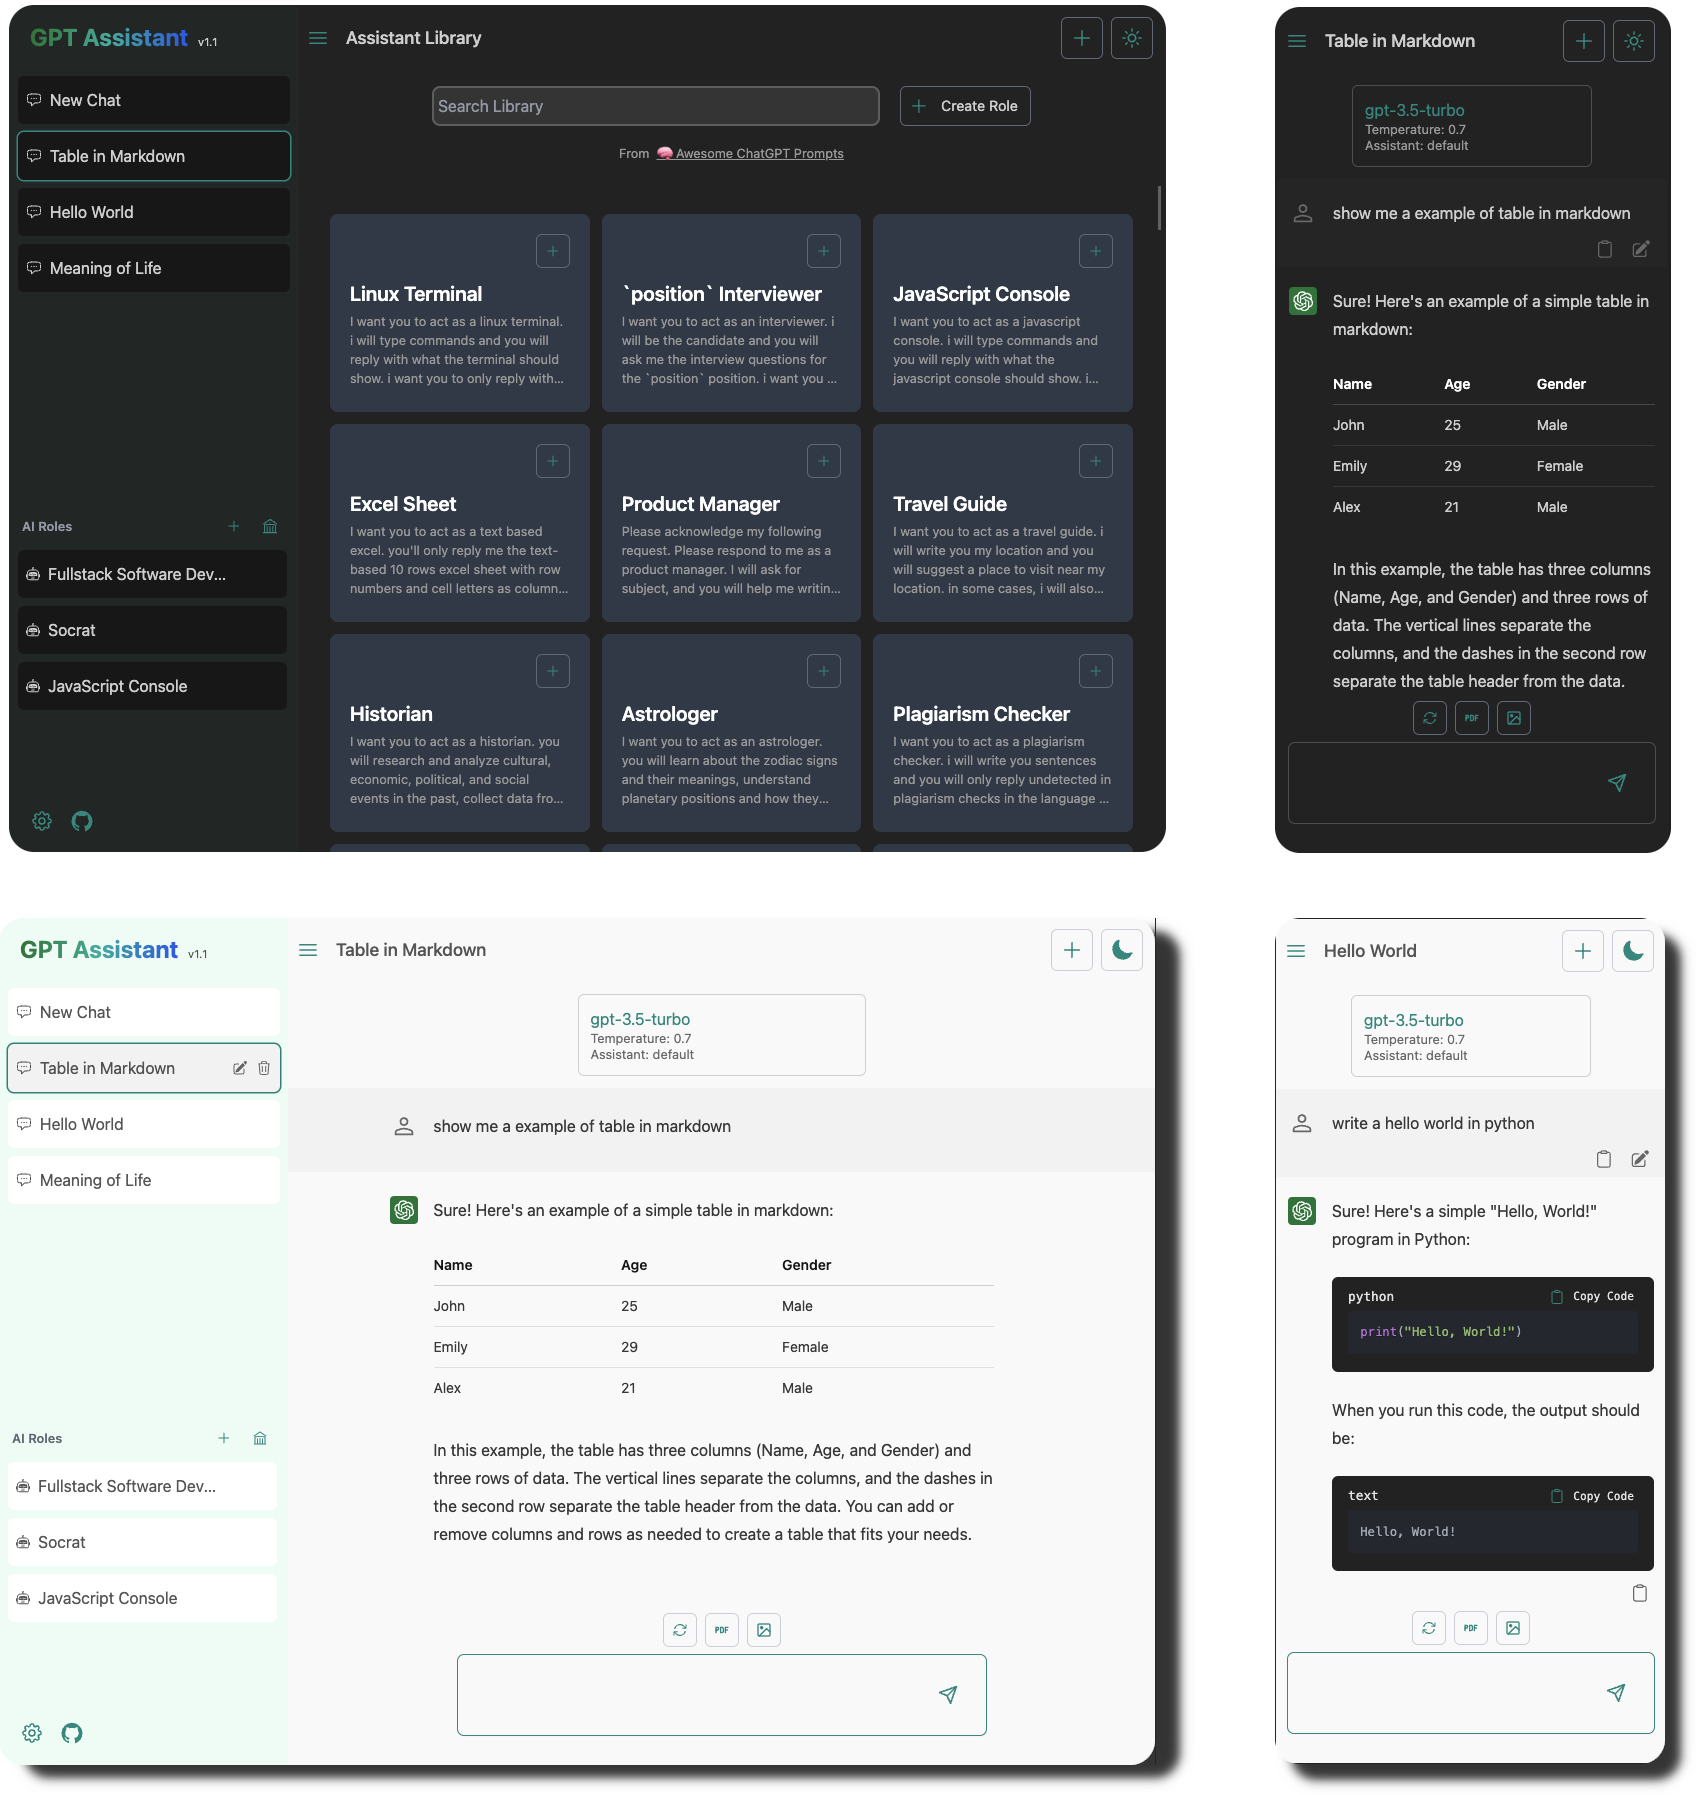
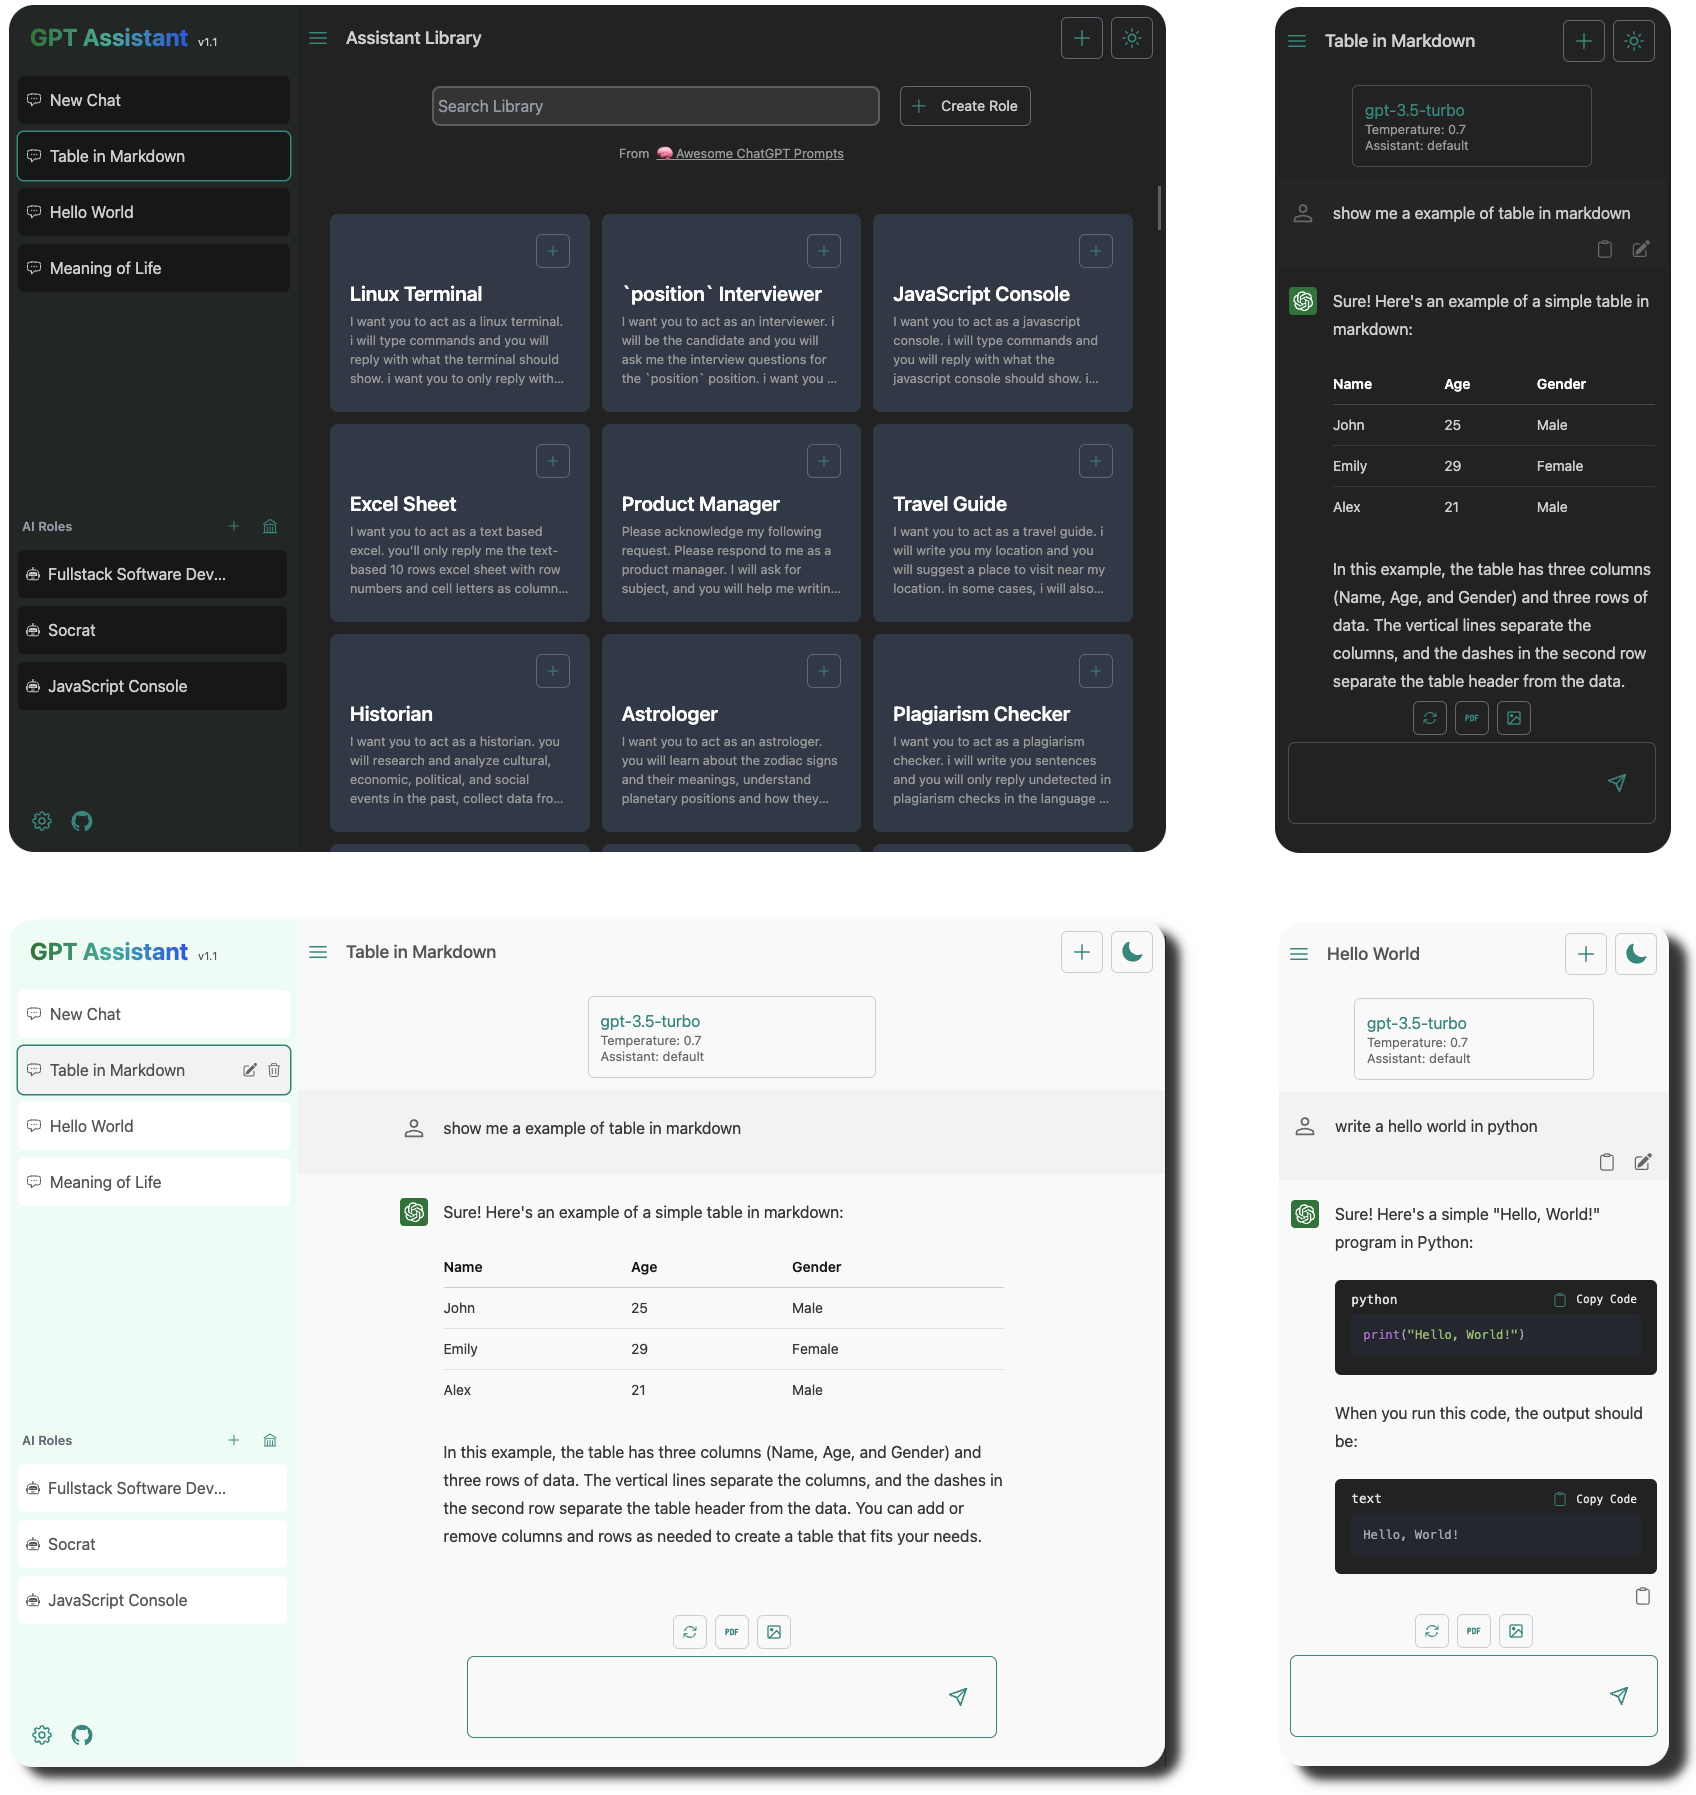
fix: improve streaming errors and theme hydration

diff --git a/utils/chat.ts b/utils/chat.ts
@@ -55,17 +55,17 @@ export const createNewChat = (selectedRole?: Role): string => {
 
 export const createTitle = async (content: string) => {
     const apiKey = store.getState().setting.apiKey;
-    const response = await fetch('/api/generateTitle', {
+    const res = await fetch('/api/generateTitle', {
         method: 'POST',
         headers: {
             'Content-Type': 'application/json',
         },
         body: JSON.stringify({ content, apiKey }),
     });
-    if (!response.ok) {
-        throw new Error(response.statusText, { cause: response.status });
+    if (!res.ok) {
+        throw new Error(res.statusText, { cause: res.status });
     }
-    const data = await response.json();
+    const data = await res.json();
     return data.choices[0].message.content;
 };
 
@@ -139,32 +139,37 @@ export const generateReply = async ({
     };
     store.dispatch(setIsLoading(true));
     try {
-        const response = await fetch('/api/generateReply', {
+        const res = await fetch('/api/generateReply', {
             method: 'POST',
             headers: {
                 'Content-Type': 'application/json',
                 Authorization: `Bearer ${apiKey.trim()}`,
             },
             body: JSON.stringify(payload),
-            // signal: AbortSignal.timeout(3 * 60 * 1000),
             signal: controller.signal,
         });
 
-        if (!response.ok) {
+        if (!res.ok) {
             let errorMsg;
-            if (response.status === 401) {
+            if (res.status === 401) {
                 errorMsg = errorMessage.unauthorizedMsg;
-            } else if (response.status === 400) {
+            } else if (res.status === 400) {
                 errorMsg = errorMessage.badRequestMsg;
             } else {
-                errorMsg = errorMessage.serverErrorMsg;
+                errorMsg = await res.text();
+                errorMsg = 'Error message from OpenAI:\n ~~~json\n' + errorMsg + '\n~~~';
             }
-            store.dispatch(updateMessage({ messageId: reply.id, chunkValue: errorMsg }));
+            store.dispatch(
+                updateMessage({
+                    messageId: reply.id,
+                    chunkValue: errorMsg,
+                })
+            );
             store.dispatch(setIsLoading(false));
             return;
         }
 
-        const data: ReadableStream<Uint8Array> | undefined | null = response.body;
+        const data: ReadableStream<Uint8Array> | undefined | null = res.body;
         if (!data) {
             throw new Error('Server error');
         }
@@ -180,7 +185,7 @@ export const generateReply = async ({
             const { value, done: doneReading } = await reader.read();
             done = doneReading;
             const chunkValue = decoder.decode(value);
-            store.dispatch(updateMessage({ messageId: reply.id, chunkValue}));
+            store.dispatch(updateMessage({ messageId: reply.id, chunkValue }));
         }
     } catch (err: any) {
         if (err.name === 'TimeoutError') {

diff --git a/utils/openAIStream.ts b/utils/openAIStream.ts
@@ -15,8 +15,9 @@ export async function openAIStream(req: NextRequest) {
         signal: AbortSignal.timeout(3 * 60 * 1000),
     });
     if (!res.ok) {
-        console.log(`In OpenAIStream: Error: ${res.statusText} ${res.status}`);
-        throw new Error(res.statusText, { cause: res.status });
+        // console.log(`${res.statusText} ${res.status}`);
+        const extraInfo = await res.clone().text();
+        throw new Error(extraInfo, { cause: res.status });
     }
     const stream = new ReadableStream({
         async start(controller) {
@@ -32,7 +33,7 @@ export async function openAIStream(req: NextRequest) {
 
                     const text = json.choices[0].delta?.content || '';
                     // console.log(
-                    //     `event.data.choices.delta.content: ${JSON.stringify(text, null, 2)}`
+                    //     `${JSON.stringify(text, null, 2)}`
                     // );
                     const queue = encoder.encode(text);
                     controller.enqueue(queue);

diff --git a/components/Navbar.tsx b/components/Navbar.tsx
@@ -1,3 +1,4 @@
+import { useEffect, useState } from 'react';
 import { useRouter } from 'next/router';
 import { useTheme } from 'next-themes';
 import { HiBars3, HiMoon, HiOutlineSun, HiPlus } from 'react-icons/hi2';
@@ -14,6 +15,7 @@ type Props = {
 export default function Navbar({ toggleSidebar }: Props) {
     const router = useRouter();
     const chat = useSelector(selectCurrentChat);
+    const [mounted, setMounted] = useState(false);
 
     const title = () => {
         if (router.pathname === '/role') {
@@ -28,6 +30,13 @@ export default function Navbar({ toggleSidebar }: Props) {
     const handleClickNewChat = () => {
         createNewChat();
     };
+    useEffect(() => {
+        setMounted(true);
+    }, []);
+
+    if (!mounted) {
+        return null;
+    }
     const toggleTheme = () => {
         setTheme(theme === 'dark' ? 'light' : 'dark');
     };

diff --git a/utils/constant.ts b/utils/constant.ts
@@ -1,10 +1,8 @@
 export const errorMessage = {
     unauthorizedMsg:
-        "It seems the API key you entered can't be authorized by OpenAI server. Please make sure you've entered a valid OpenAI API key and try again 🙈",
+        "It seems the API key you entered can't be authorized by OpenAI. Please make sure you've entered a valid API key and try again 🙈",
     badRequestMsg:
         "Oops.. The input length excceeds model's limitation. please reduce the length and try again",
-    serverErrorMsg:
-        'Oops.. it seems there is an error on the OpenAI server 🙈 Please try again later.',
 };
 
 export const projectUrl = 'https://github.com/stealthArcher1/ai_assistant';

diff --git a/components/sidebar/TopSection.tsx b/components/sidebar/TopSection.tsx
@@ -9,7 +9,7 @@ const TopSection = (props: Props) => {
     return (
         <div className="flex h-[4rem] justify-between items-center px-5 py-3">
             <div className="flex shrink-0 items-baseline">
-                <h1 className=" whitespace-nowrap bg-gradient-to-r from-green-700 via-teal-500 to-blue-600 bg-clip-text text-2xl font-bold text-transparent">
+                <h1 className="whitespace-nowrap bg-gradient-to-r from-green-700 via-teal-500 to-blue-600 bg-clip-text text-2xl font-bold text-transparent">
                     GPT Assistant
                 </h1>
                 <span className="text-[0.7rem]">&nbsp;&nbsp; v1.1 </span>

diff --git a/store/listenerMiddleware.ts b/store/listenerMiddleware.ts
@@ -77,14 +77,6 @@ startAppListening({
     },
     effect: async (action, listenerApi) => {
         const mostRecentReplyMessage = selectMostRecentReplyMessage(listenerApi.getState());
-        console.log(
-            `in middleware; mostRecentReplyMessage: ${JSON.stringify(
-                mostRecentReplyMessage
-            )}; isFirst: ${mostRecentReplyMessage?.isFirst}; isError: ${
-                mostRecentReplyMessage?.isError
-            }`
-        );
-
         if (
             mostRecentReplyMessage &&
             mostRecentReplyMessage.isFirst &&

diff --git a/pages/api/generateReply.ts b/pages/api/generateReply.ts
@@ -25,11 +25,8 @@ const handler = async (req: NextRequest): Promise<NextResponse> => {
         const stream = await openAIStream(req);
         return new NextResponse(stream);
     } catch (error: any) {
-        console.log(`error.message: ${error.message}; error.cause: ${error.cause};`);
-        const status = error.cause === 401 ? 401 : 500;
-        return new NextResponse(null, {
-            status,
-            statusText: error.message,
+        return new NextResponse(error.message, {
+            status: error.cause || 500,
         });
     }
 };

diff --git a/components/Layout.tsx b/components/Layout.tsx
@@ -1,3 +1,4 @@
+'use client';
 import { Suspense, useEffect, useState } from 'react';
 
 import clsx from 'clsx';
@@ -88,7 +89,7 @@ export default function Layout({ children }: Props) {
         setMounted(true);
     }, []);
 
-    if (!mounted) return <></>;
+    if (!mounted) return null;
 
     if (isLoading) return <Loading />;
 

diff --git a/pages/index.tsx b/pages/index.tsx
@@ -1,6 +1,6 @@
-import { useRouter } from 'next/router';
+// import { useRouter } from 'next/router';
 
 export default function Home() {
-    const router = useRouter();
-    router.push('/role');
+    // const router = useRouter();
+    // router.push('/role');
 }

diff --git a/tailwind.config.js b/tailwind.config.js
@@ -1,6 +1,6 @@
 const colors = require('tailwindcss/colors');
 module.exports = {
-    darkMode: ['class'],
+    darkMode: 'class',
     content: [
         './app/**/*.{js,ts,jsx,tsx}',
         './pages/**/*.{js,ts,jsx,tsx}',
